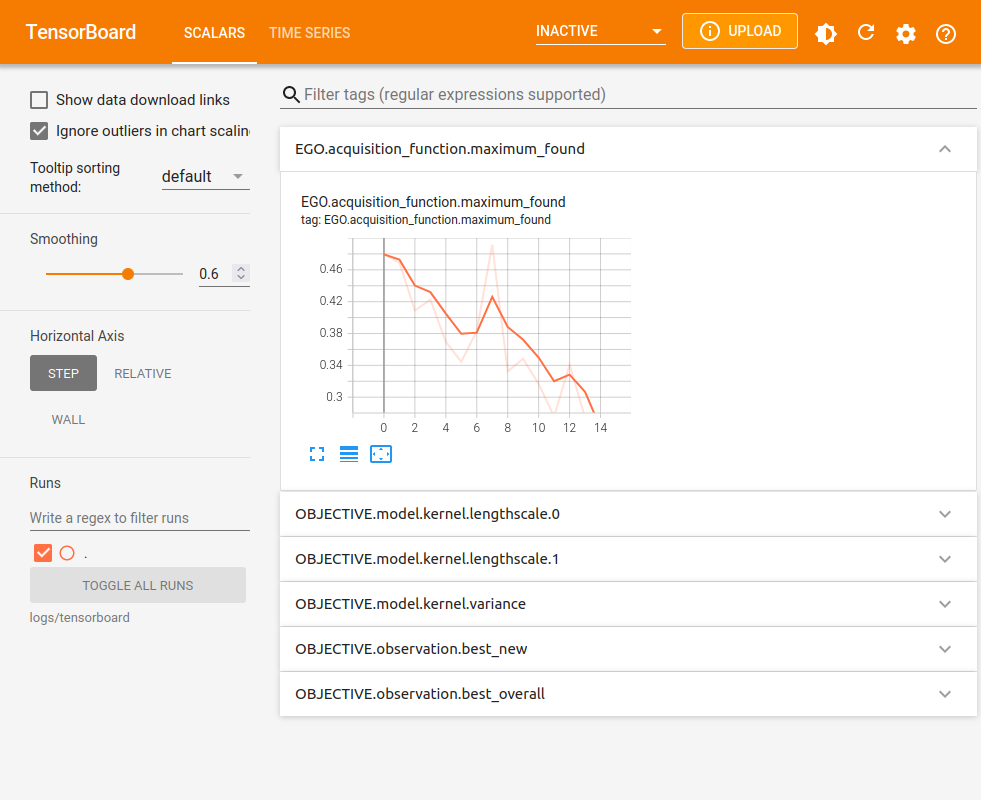
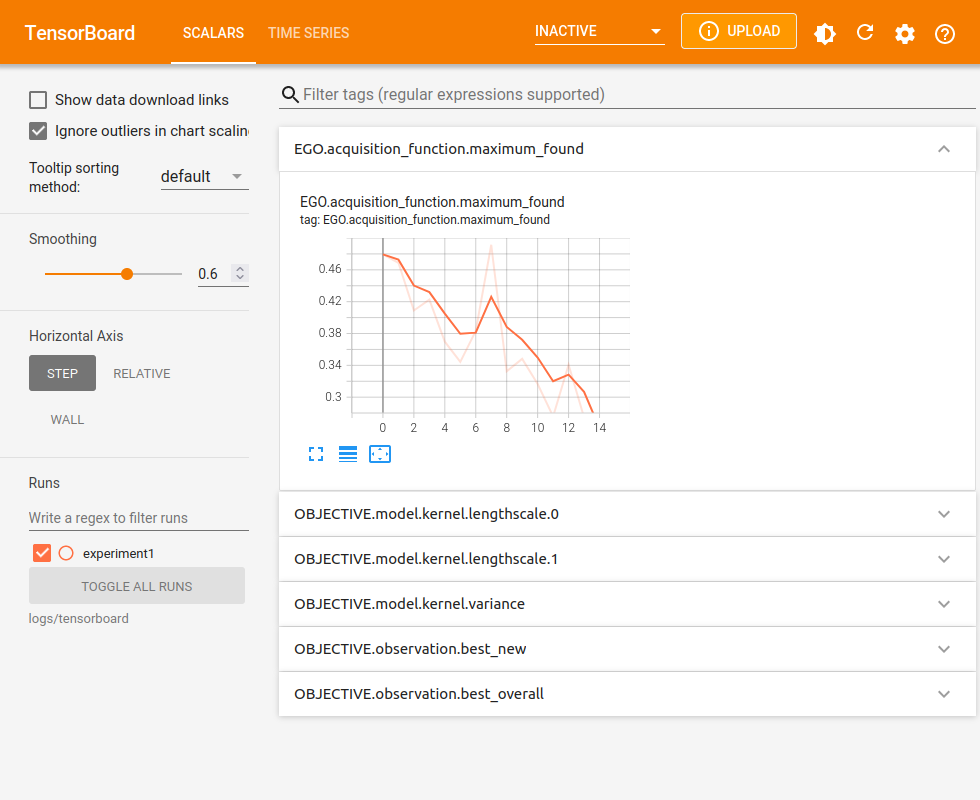
Update notebook and images

diff --git a/docs/notebooks/visualizing_with_tensorboard.pct.py b/docs/notebooks/visualizing_with_tensorboard.pct.py
@@ -40,7 +40,7 @@ model = trieste.models.gpflow.GaussianProcessRegression(gpr)
 # Clear any logs from previous runs
 # !rm -rf logs/tensorboard
 
-summary_writer = tf.summary.create_file_writer("logs/tensorboard")
+summary_writer = tf.summary.create_file_writer("logs/tensorboard/experiment1")
 trieste.logging.set_tensorboard_writer(summary_writer)
 
 # %% [markdown]
@@ -97,9 +97,12 @@ class GPRExtraLogging(trieste.models.gpflow.GaussianProcessRegression):
 model = GPRExtraLogging(gpr)
 
 # %% [markdown]
-# Running with this model now also produces logs for the mean lengthscale.
+# Running with this model now also produces logs for the mean lengthscale. We mark this optimization run as a separate experiment by creating a new summary writer. Tensorboard will conveniently offer an automatic comparison of the experiments.
 
 # %%
+summary_writer = tf.summary.create_file_writer("logs/tensorboard/experiment2")
+trieste.logging.set_tensorboard_writer(summary_writer)
+
 bo = trieste.bayesian_optimizer.BayesianOptimizer(observer, search_space)
 result, history = bo.optimize(num_steps, initial_data, model).astuple()
 
@@ -112,11 +115,16 @@ result, history = bo.optimize(num_steps, initial_data, model).astuple()
 # To use Tensorboard logging with the [Ask-Tell interface](ask_tell_optimization.ipynb), you must also explicitly set the optimization step number before calling ask or tell:
 
 # %%
+summary_writer = tf.summary.create_file_writer("logs/tensorboard/experiment3")
+trieste.logging.set_tensorboard_writer(summary_writer)
+
+ask_tell = trieste.ask_tell_optimization.AskTellOptimizer(search_space, initial_data, model)
+
 for step in range(num_steps):
     trieste.logging.set_step_number(step)
-    # new_point = ask_tell.ask()
-    # new_data = observer(new_point)
-    # ask_tell.tell(new_data)
+    new_point = ask_tell.ask()
+    new_data = observer(new_point)
+    ask_tell.tell(new_data)
 
 # %% [markdown]
 # ## LICENSE
